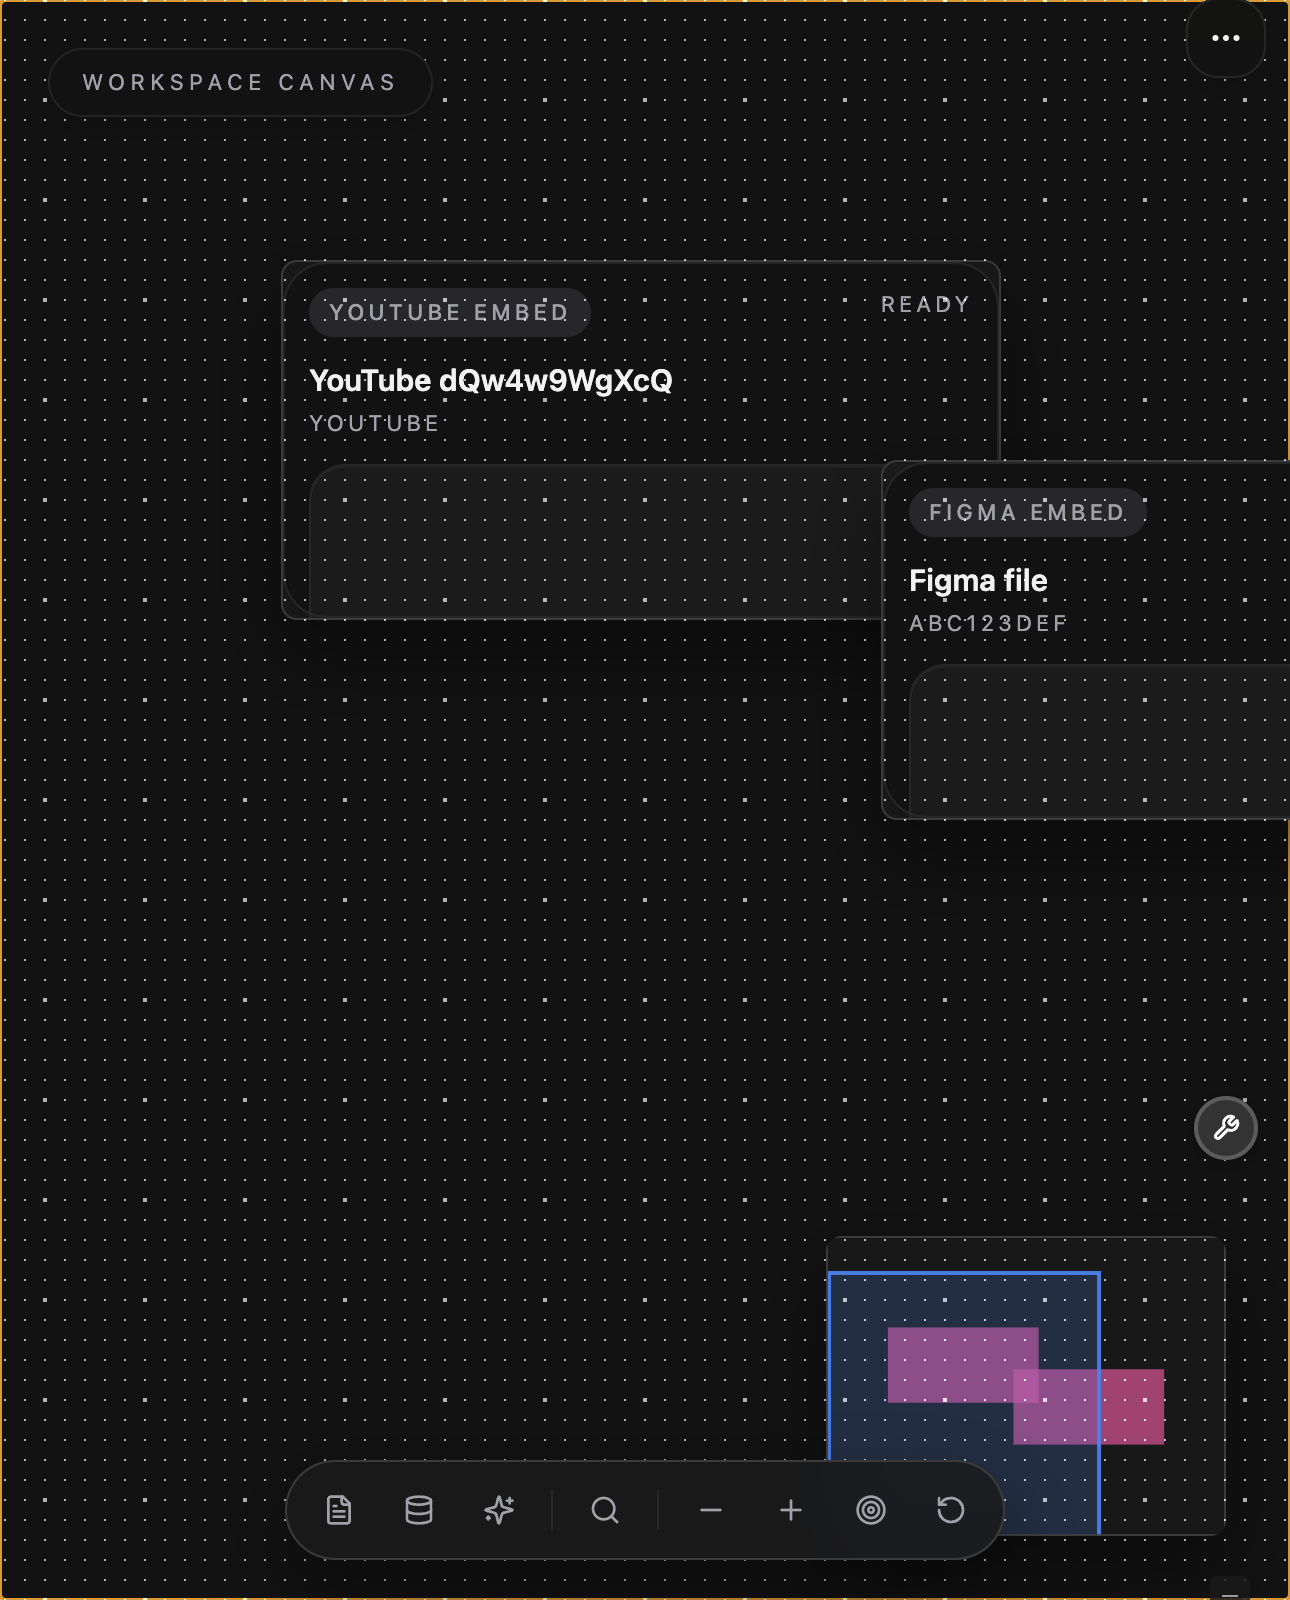
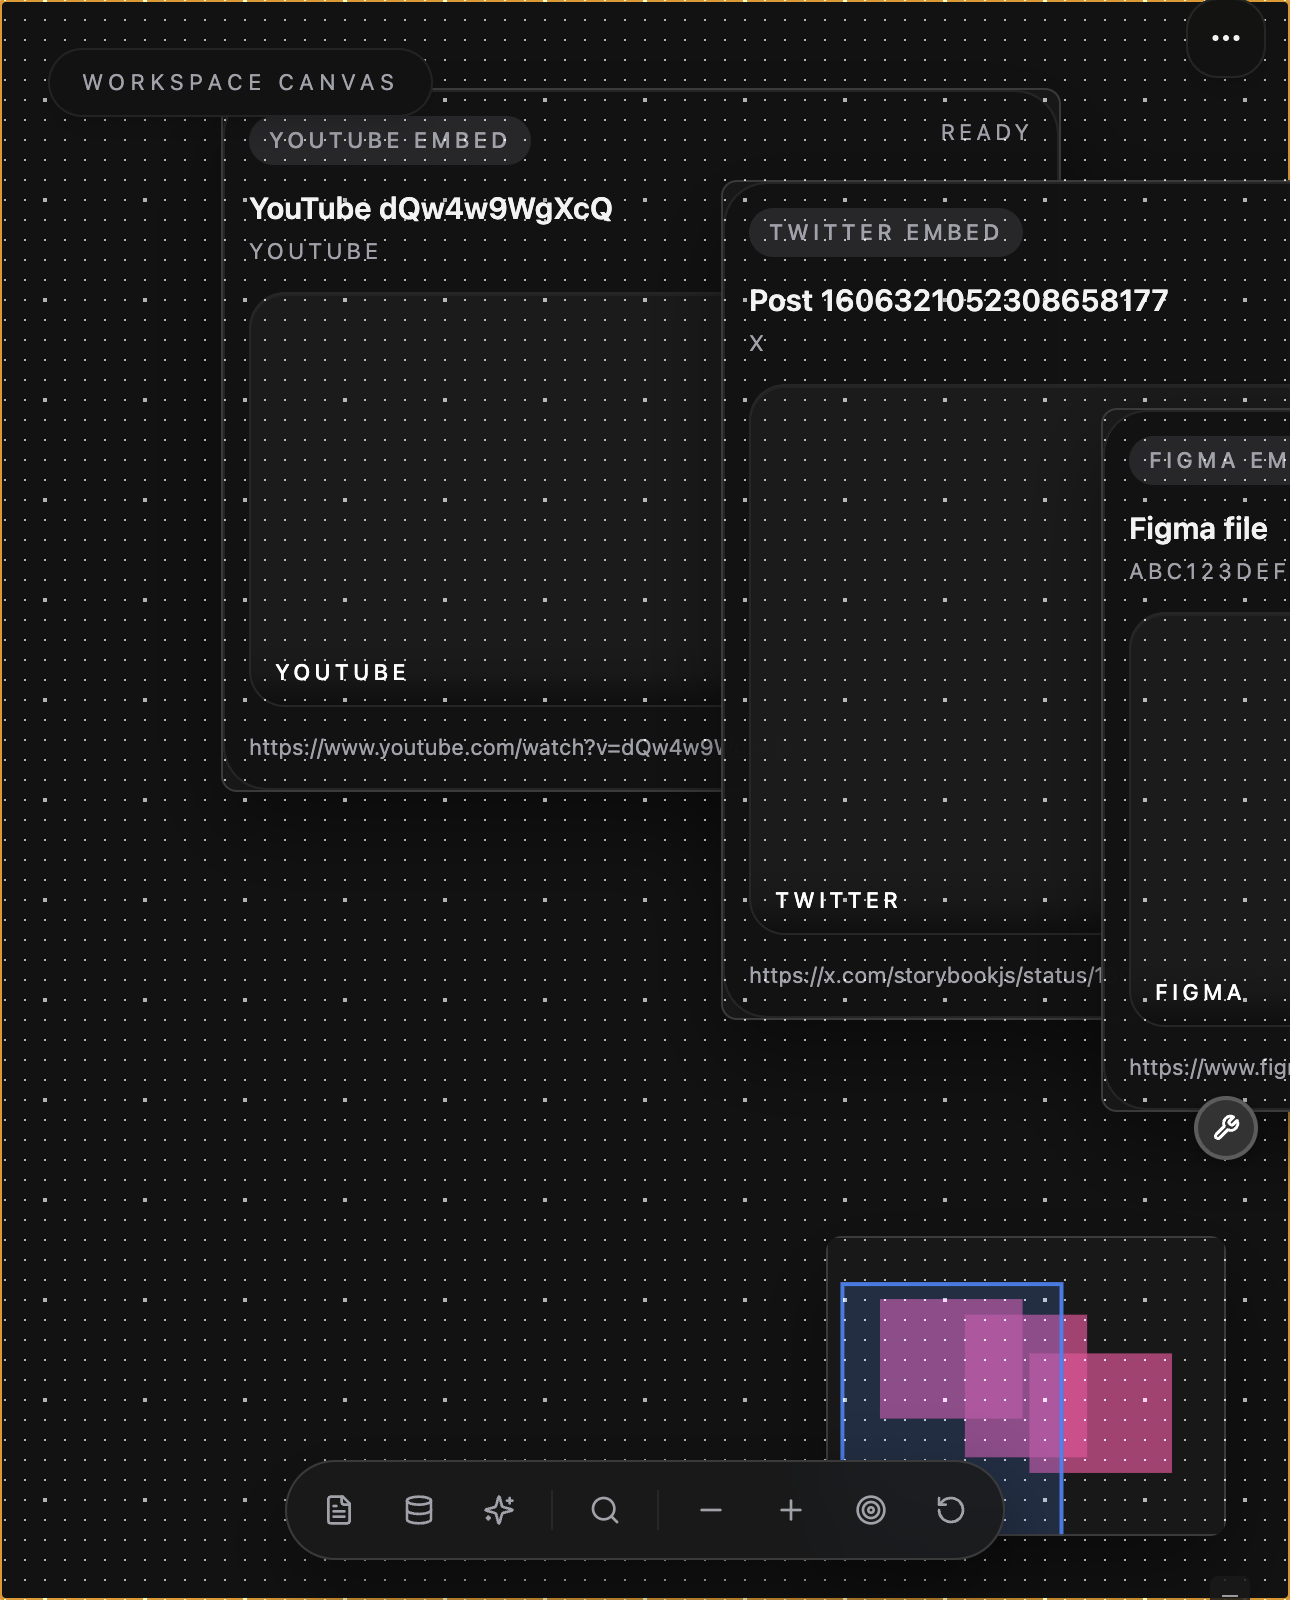
feat(canvas): size embed drops by provider
- size external-reference canvas nodes from shared embed metadata
  instead of generic link-card defaults
- verify useful YouTube, X, and Figma embed dimensions in
  focused web and Electron e2e coverage
- refresh PR artifacts for the updated canvas embed surfaces

diff --git a/packages/canvas/src/ingestion.ts b/packages/canvas/src/ingestion.ts
@@ -13,6 +13,7 @@ import type {
 } from '@xnetjs/data'
 import {
   DatabaseSchema,
+  EMBED_PROVIDERS,
   ExternalReferenceSchema,
   MediaAssetSchema,
   PageSchema,
@@ -26,6 +27,11 @@ const CANVAS_STACK_OFFSET = 28
 const DEFAULT_MEDIA_RECT = { width: 320, height: 240 }
 const MAX_MEDIA_PREVIEW_WIDTH = 420
 const MAX_MEDIA_PREVIEW_HEIGHT = 320
+const DEFAULT_EXTERNAL_REFERENCE_RECT = { width: 360, height: 180 }
+const DEFAULT_EMBED_RECT = { width: 420, height: 352 }
+const DEFAULT_SOCIAL_EMBED_RECT = { width: 360, height: 420 }
+const DEFAULT_AUDIO_EMBED_RECT = { width: 360, height: 300 }
+const DEFAULT_EMBED_CHROME_HEIGHT = 116
 const DEFAULT_SHAPE_RECT = { width: 240, height: 160 }
 const DEFAULT_FRAME_RECT = { width: 640, height: 420 }
 
@@ -174,6 +180,81 @@ export function getMediaRect(dimensions?: { width?: number; height?: number } | 
   }
 }
 
+function normalizeExternalReferenceSizingInput(
+  input:
+    | CanvasExternalReferenceDescriptor
+    | {
+        provider?: string | null
+        kind?: string | null
+        embedUrl?: string | null
+      }
+    | null
+    | undefined
+): {
+  provider: string | null
+  kind: string | null
+  embedUrl: string | null
+} {
+  if (!input) {
+    return {
+      provider: null,
+      kind: null,
+      embedUrl: null
+    }
+  }
+
+  return {
+    provider: typeof input.provider === 'string' ? input.provider : null,
+    kind: typeof input.kind === 'string' ? input.kind : null,
+    embedUrl: typeof input.embedUrl === 'string' ? input.embedUrl : null
+  }
+}
+
+export function getExternalReferenceRect(
+  input:
+    | CanvasExternalReferenceDescriptor
+    | {
+        provider?: string | null
+        kind?: string | null
+        embedUrl?: string | null
+      }
+    | null
+    | undefined
+): {
+  width: number
+  height: number
+} {
+  const normalized = normalizeExternalReferenceSizingInput(input)
+
+  if (!normalized.embedUrl) {
+    return DEFAULT_EXTERNAL_REFERENCE_RECT
+  }
+
+  if (normalized.provider === 'twitter' || normalized.kind === 'social') {
+    return DEFAULT_SOCIAL_EMBED_RECT
+  }
+
+  if (normalized.provider === 'spotify' || normalized.kind === 'audio') {
+    return DEFAULT_AUDIO_EMBED_RECT
+  }
+
+  const provider = normalized.provider
+    ? EMBED_PROVIDERS.find((candidate) => candidate.name === normalized.provider)
+    : null
+
+  if (!provider?.aspectRatio) {
+    return DEFAULT_EMBED_RECT
+  }
+
+  const width = DEFAULT_EMBED_RECT.width
+  const embedHeight = Math.round(width / provider.aspectRatio)
+
+  return {
+    width,
+    height: embedHeight + DEFAULT_EMBED_CHROME_HEIGHT
+  }
+}
+
 export async function readImageDimensions(
   file: File
 ): Promise<{ width: number; height: number } | null> {
@@ -238,12 +319,26 @@ export function resolveCanvasPlacementRect(input: {
   canvasPoint?: Point | null
   spreadIndex?: number
   rect?: Partial<Rect>
+  properties?: Record<string, unknown>
 }): Rect {
   const spreadIndex = input.spreadIndex ?? 0
   const offset = spreadIndex * CANVAS_STACK_OFFSET
-  const baseNode = createNode(input.objectKind, input.rect)
-  const width = input.rect?.width ?? baseNode.position.width
-  const height = input.rect?.height ?? baseNode.position.height
+  const baseRect =
+    input.objectKind === 'external-reference'
+      ? {
+          ...getExternalReferenceRect({
+            provider:
+              typeof input.properties?.provider === 'string' ? input.properties.provider : null,
+            kind: typeof input.properties?.kind === 'string' ? input.properties.kind : null,
+            embedUrl:
+              typeof input.properties?.embedUrl === 'string' ? input.properties.embedUrl : null
+          }),
+          ...(input.rect ?? {})
+        }
+      : input.rect
+  const baseNode = createNode(input.objectKind, baseRect)
+  const width = baseRect?.width ?? baseNode.position.width
+  const height = baseRect?.height ?? baseNode.position.height
   const centerX = input.canvasPoint?.x ?? input.viewport.x
   const centerY = input.canvasPoint?.y ?? input.viewport.y
 
@@ -293,7 +388,8 @@ export function createSourceBackedCanvasNode(input: CanvasSourceBackedNodeInput)
     viewport: input.viewport,
     canvasPoint: input.canvasPoint,
     spreadIndex: input.spreadIndex,
-    rect: input.rect
+    rect: input.rect,
+    properties: input.properties
   })
 
   const node = createNode(input.objectKind, rect, {

diff --git a/tests/e2e/src/web-canvas-ingestion.spec.ts b/tests/e2e/src/web-canvas-ingestion.spec.ts
@@ -217,6 +217,26 @@ async function setCanvasViewport(
   }, input)
 }
 
+async function getCanvasEmbedBounds(
+  page: import('@playwright/test').Page,
+  provider: string
+): Promise<{ width: number; height: number }> {
+  return await page
+    .locator(`[data-canvas-embed-node="true"][data-canvas-embed-provider="${provider}"]`)
+    .evaluate((element) => {
+      const host = element.closest<HTMLElement>('.canvas-node')
+      if (!host) {
+        throw new Error('Canvas node host not found for embed provider')
+      }
+
+      const rect = host.getBoundingClientRect()
+      return {
+        width: Math.round(rect.width),
+        height: Math.round(rect.height)
+      }
+    })
+}
+
 async function moveCanvasNode(
   page: import('@playwright/test').Page,
   nodeId: string,
@@ -831,14 +851,18 @@ test.describe('Web canvas ingestion', () => {
         provider: 'youtube',
         frameSrc: 'https://www.youtube.com/embed/dQw4w9WgXcQ',
         clientX: 280,
-        clientY: 220
+        clientY: 220,
+        minWidth: 400,
+        minHeight: 320
       },
       {
         url: 'https://x.com/storybookjs/status/1606321052308658177',
         provider: 'twitter',
         frameSrc: 'https://platform.twitter.com/embed/Tweet.html?id=1606321052308658177',
         clientX: 520,
-        clientY: 300
+        clientY: 300,
+        minWidth: 340,
+        minHeight: 380
       },
       {
         url: 'https://www.figma.com/file/abc123def/storybook-rich-editor-spec',
@@ -846,7 +870,9 @@ test.describe('Web canvas ingestion', () => {
         frameSrc:
           'https://www.figma.com/embed?embed_host=xnet&url=https://www.figma.com/file/abc123def',
         clientX: 760,
-        clientY: 380
+        clientY: 380,
+        minWidth: 400,
+        minHeight: 320
       }
     ] as const
 
@@ -873,6 +899,10 @@ test.describe('Web canvas ingestion', () => {
         drop.frameSrc,
         { timeout: 30_000 }
       )
+
+      const bounds = await getCanvasEmbedBounds(page, drop.provider)
+      expect(bounds.width).toBeGreaterThanOrEqual(drop.minWidth)
+      expect(bounds.height).toBeGreaterThanOrEqual(drop.minHeight)
     }
 
     await expect(page.locator('.canvas-node[data-node-type="external-reference"]')).toHaveCount(3, {

diff --git a/tests/e2e/src/electron-canvas.spec.ts b/tests/e2e/src/electron-canvas.spec.ts
@@ -797,6 +797,26 @@ async function setCanvasViewport(page: Page, input: CanvasViewportInput): Promis
   }, input)
 }
 
+async function getCanvasEmbedBounds(
+  page: Page,
+  provider: string
+): Promise<{ width: number; height: number }> {
+  return await page
+    .locator(`[data-canvas-embed-node="true"][data-canvas-embed-provider="${provider}"]`)
+    .evaluate((element) => {
+      const host = element.closest<HTMLElement>('.canvas-node')
+      if (!host) {
+        throw new Error('Canvas node host not found for embed provider')
+      }
+
+      const rect = host.getBoundingClientRect()
+      return {
+        width: Math.round(rect.width),
+        height: Math.round(rect.height)
+      }
+    })
+}
+
 async function createCanvasObjectFromDock(
   page: Page,
   kind: 'page' | 'database' | 'note'
@@ -1374,15 +1394,28 @@ test.describe('Electron canvas shell', () => {
         provider: 'youtube',
         frameSrc: 'https://www.youtube.com/embed/dQw4w9WgXcQ',
         clientX: 320,
-        clientY: 220
+        clientY: 220,
+        minWidth: 400,
+        minHeight: 320
+      },
+      {
+        url: 'https://x.com/storybookjs/status/1606321052308658177',
+        provider: 'twitter',
+        frameSrc: 'https://platform.twitter.com/embed/Tweet.html?id=1606321052308658177',
+        clientX: 540,
+        clientY: 300,
+        minWidth: 340,
+        minHeight: 380
       },
       {
         url: 'https://www.figma.com/file/abc123def/storybook-rich-editor-spec',
         provider: 'figma',
         frameSrc:
           'https://www.figma.com/embed?embed_host=xnet&url=https://www.figma.com/file/abc123def',
-        clientX: 620,
-        clientY: 320
+        clientX: 760,
+        clientY: 380,
+        minWidth: 400,
+        minHeight: 320
       }
     ] as const
 
@@ -1409,6 +1442,10 @@ test.describe('Electron canvas shell', () => {
         drop.frameSrc,
         { timeout: 30_000 }
       )
+
+      const bounds = await getCanvasEmbedBounds(page, drop.provider)
+      expect(bounds.width).toBeGreaterThanOrEqual(drop.minWidth)
+      expect(bounds.height).toBeGreaterThanOrEqual(drop.minHeight)
     }
 
     await page.screenshot({

diff --git a/packages/canvas/src/__tests__/ingestion.test.ts b/packages/canvas/src/__tests__/ingestion.test.ts
@@ -7,6 +7,7 @@ import {
   describeExternalReference,
   extractCanvasIngressPayloads,
   getCanvasObjectKindFromSchema,
+  getExternalReferenceRect,
   getMediaRect,
   normalizeExternalReferenceUrl,
   serializeCanvasInternalNodeDragData
@@ -107,6 +108,48 @@ describe('canvas ingestion utilities', () => {
     expect(node.position.height).toBe(220)
     expect(node.position.x).toBe(220)
     expect(node.position.y).toBe(190)
+  })
+
+  it('sizes embeddable external references using shared provider metadata', () => {
+    const youtubeRect = getExternalReferenceRect({
+      provider: 'youtube',
+      kind: 'video',
+      embedUrl: 'https://www.youtube.com/embed/dQw4w9WgXcQ'
+    })
+    const twitterRect = getExternalReferenceRect({
+      provider: 'twitter',
+      kind: 'social',
+      embedUrl: 'https://platform.twitter.com/embed/Tweet.html?id=1606321052308658177'
+    })
+    const genericRect = getExternalReferenceRect({
+      provider: 'generic',
+      kind: 'link',
+      embedUrl: null
+    })
+
+    expect(youtubeRect).toEqual({ width: 420, height: 352 })
+    expect(twitterRect).toEqual({ width: 360, height: 420 })
+    expect(genericRect).toEqual({ width: 360, height: 180 })
+  })
+
+  it('creates source-backed embed nodes with provider-aware default placement rects', () => {
+    const youtubeNode = createSourceBackedCanvasNode({
+      objectKind: 'external-reference',
+      viewport: { x: 400, y: 300, zoom: 1 },
+      title: 'YouTube video',
+      properties: {
+        provider: 'youtube',
+        kind: 'video',
+        embedUrl: 'https://www.youtube.com/embed/dQw4w9WgXcQ'
+      }
+    })
+
+    expect(youtubeNode.position).toMatchObject({
+      width: 420,
+      height: 352,
+      x: 190,
+      y: 124
+    })
   })
 
   it('creates primitive canvas nodes with shape and frame defaults', () => {

diff --git a/packages/canvas/src/index.ts b/packages/canvas/src/index.ts
@@ -123,6 +123,7 @@ export {
   parseCanvasInternalNodeDragData,
   normalizeExternalReferenceUrl,
   describeExternalReference,
+  getExternalReferenceRect,
   inferMediaKind,
   getMediaRect,
   readImageDimensions,
